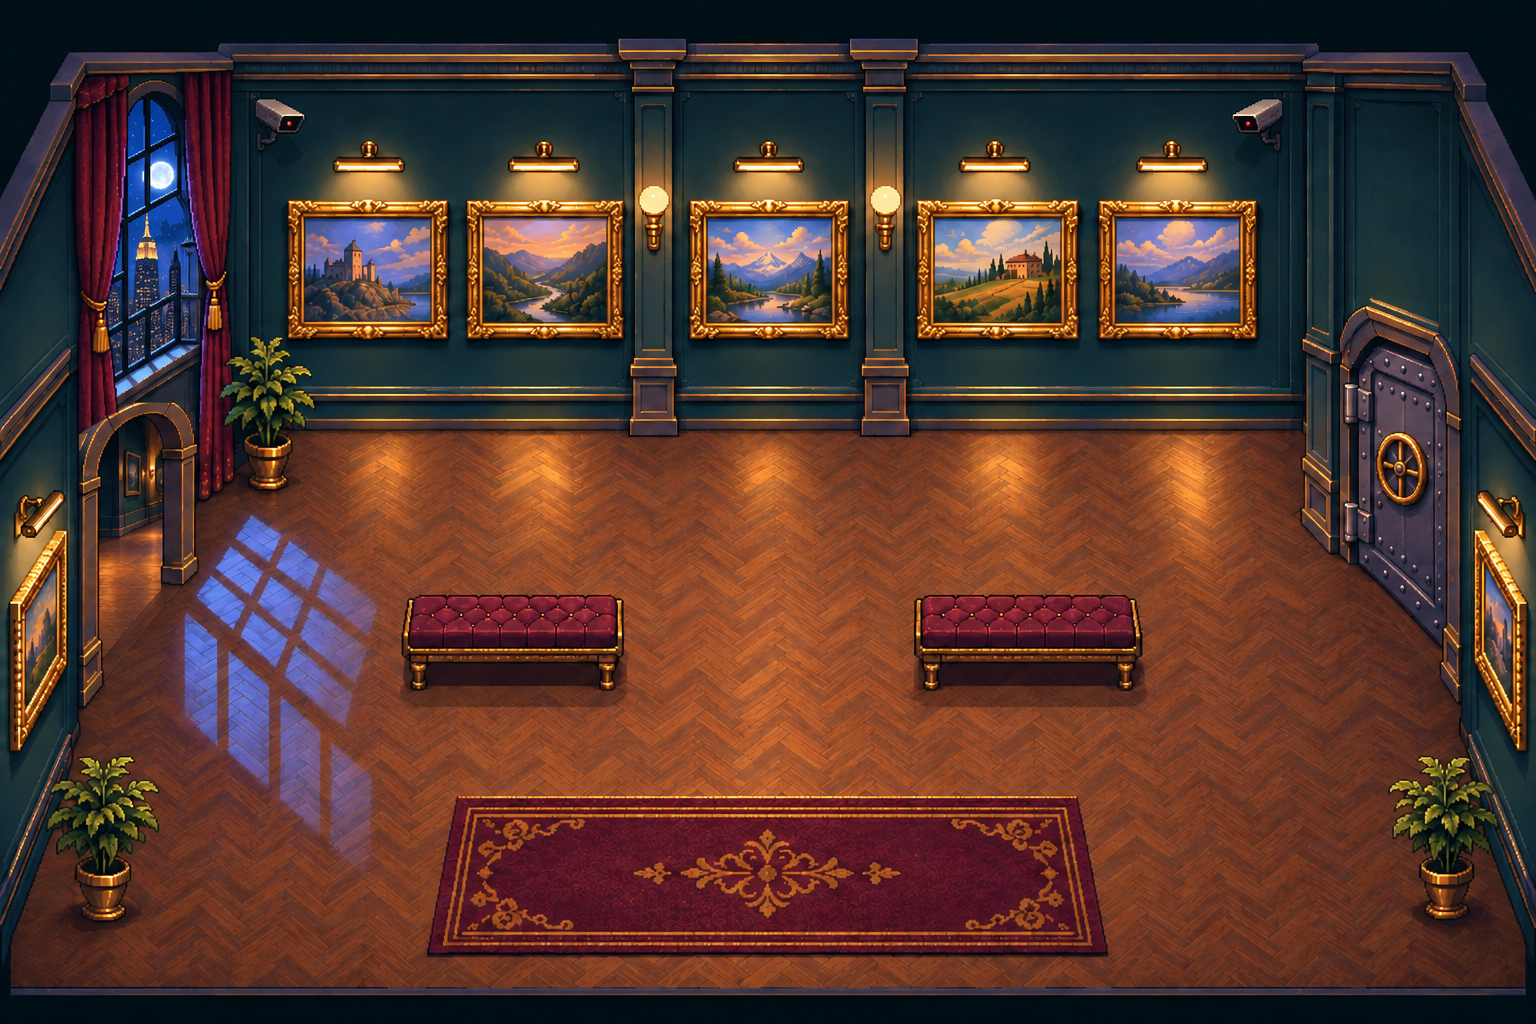
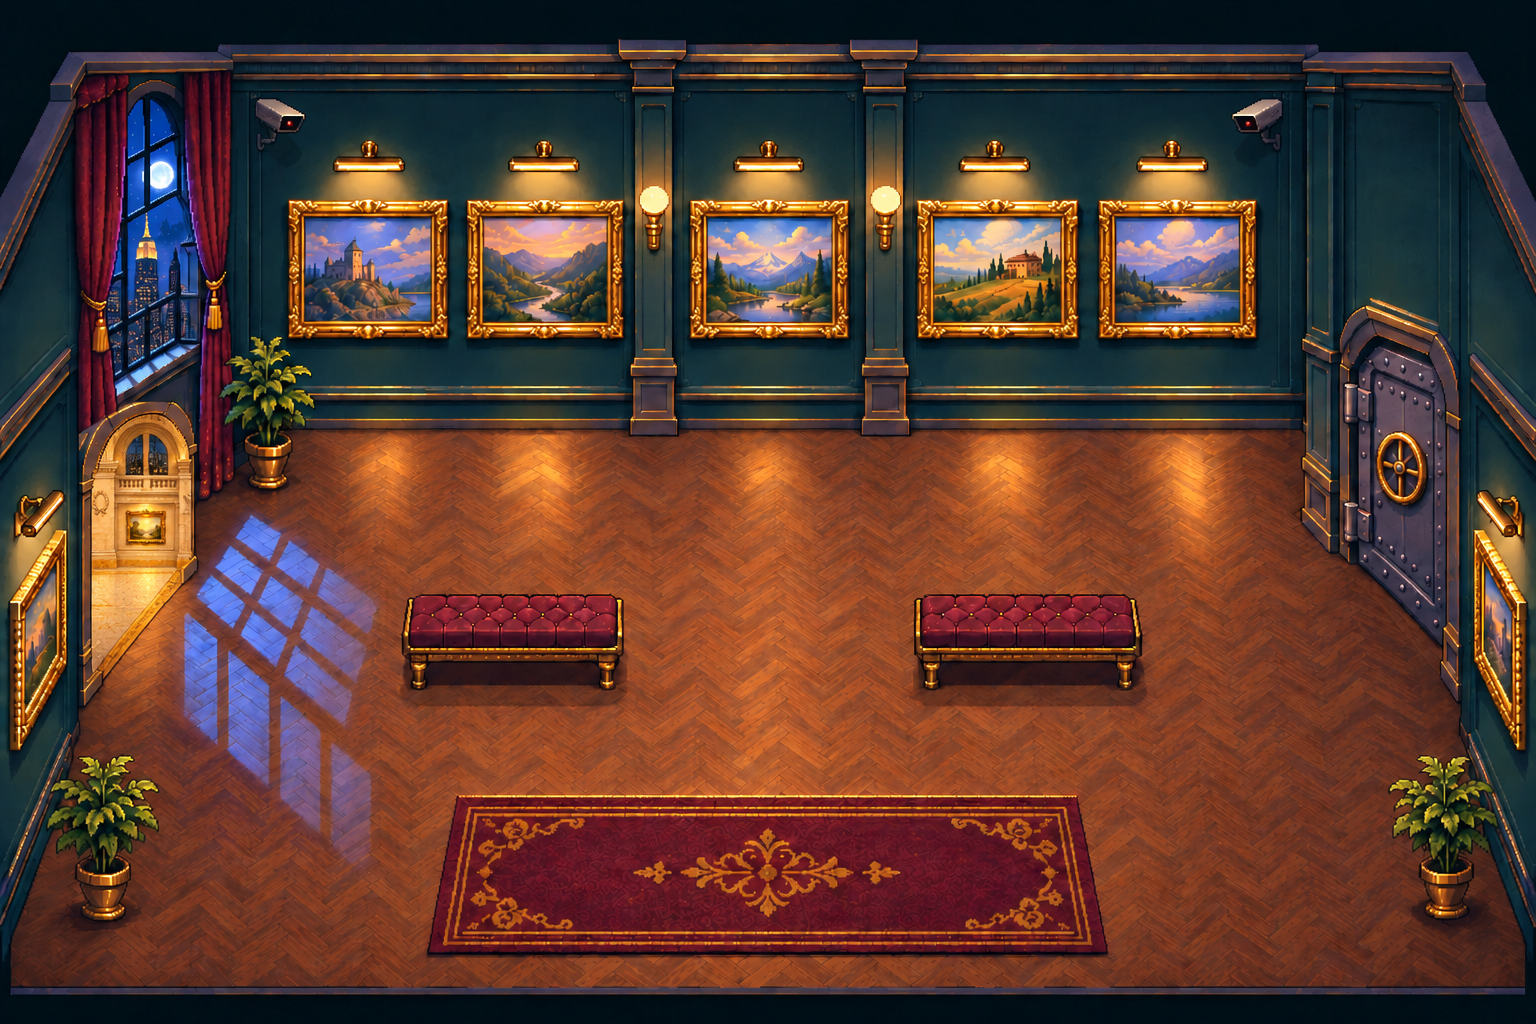
Match gallery doorway view to the great hall

diff --git a/docs/arbeitsprotokoll.md b/docs/arbeitsprotokoll.md
@@ -127,3 +127,5 @@ Hier steht nach jeder Aufgabe, was tatsächlich geschah. Die Vorlage und die Reg
 - **Umsetzung:** `web/gallery.js` zeichnet das Hintergrundbild, die Figuren, Aufgaben und blinkenden roten Kameralichter; reduzierte Bewegung hält die Lichter an. `web/gallery-layout.js` beschreibt die sichtbaren Wände und Möbel. `web/engine.js` und `web/motion.js` prüfen die Grenzen und übersetzen den Eingang zwischen beiden Raumansichten. Alte Spielstände in neuen Hindernissen werden sicher versetzt; Story-Fortschritt bleibt erhalten. `web/main.js` und `web/style.css` zeigen den neuen Bogen und halten den Raum vollständig im Fenster. Stationen und Tresor behalten ihre ursprünglichen Story-Aktionen. Die Kameras sind nur optisch und haben keine Alarm- oder Erkennungsfunktion.
 - **Prüfung:** `node --test` in `web`: 105 Tests bestanden, darunter Bewegungsgrenzen, beide Richtungen durch den Eingang, Bänke, Tresortür, alte Spielstände und Kamerablinken. Im Browser wurden beide Richtungen durch den neuen Eingang und das Öffnen des Landschaftsrätsels geprüft; der Spielstand überstand einen Serverneustart. Die Galerieansicht und der Hauptsaal wurden sichtbar geprüft. Ein kompletter neuer Durchlauf beider Enden und ein Test auf einem echten Mobilgerät stehen aus.
 - **Grenzen:** Die Bildgenerierung wurde an das vorhandene Raster angepasst; die Dekoration ist kein exakter Met-Galerieplan. Menschliches Review und ein GitHub-Merge sind erst nach tatsächlicher Ausführung nachzuweisen.
+
+- **Ergänzung auf Nutzerwunsch:** Der Blick durch den linken Galeriebogen zeigt nun die helle Eingangshalle mit Steinbögen und Marmorboden. Das Bild wurde mit dem eingebauten Bildwerkzeug anhand der vorhandenen Halle überarbeitet; Kameras, New Yorker Fenster, Möbel und Raumgrenzen bleiben an ihren bisherigen Positionen.
